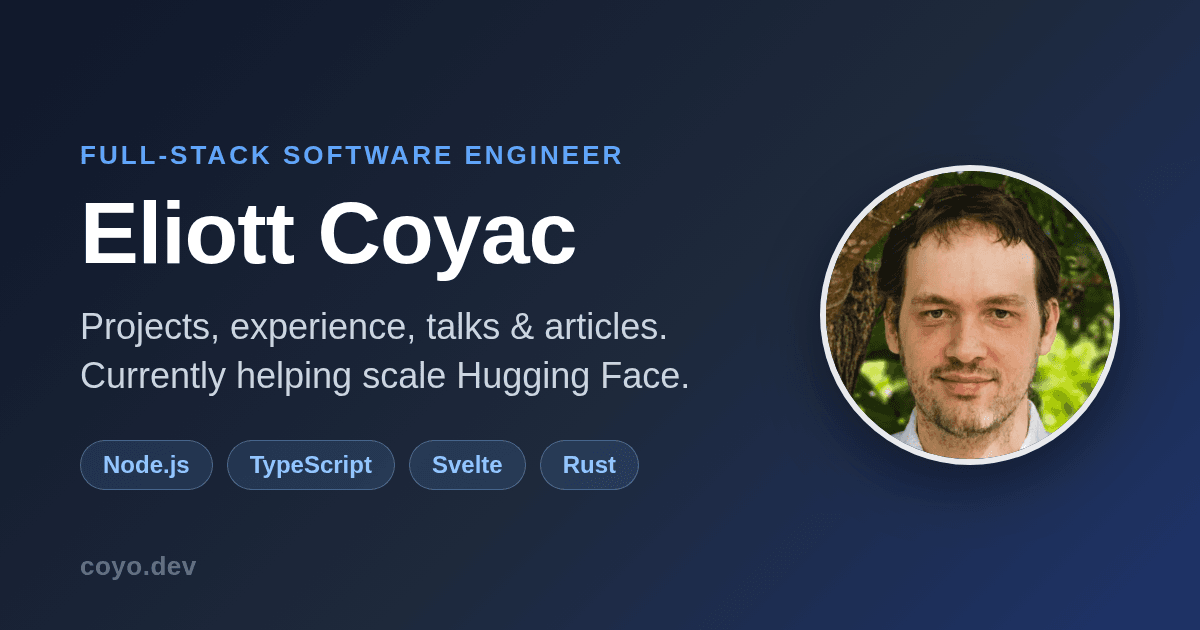
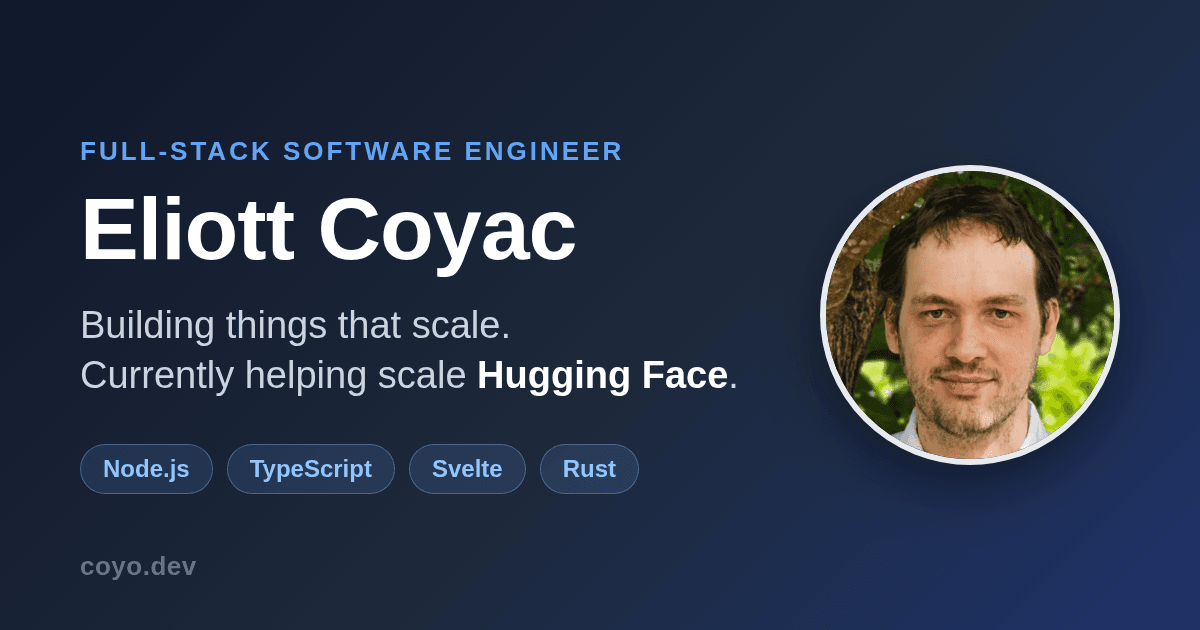
Replace OG subline with a hook: 'Building things that scale'
Drops the 'projects, experience, talks & articles' list from the OG
image and meta descriptions for a punchier tagline.

diff --git a/src/app.html b/src/app.html
@@ -4,13 +4,13 @@
 		<meta charset="utf-8" />
 		<link rel="icon" type="image/png" href="/icons/logo.png" />
 		<meta name="viewport" content="width=device-width, initial-scale=1" />
-		<meta name="description" content="Eliott Coyac: full-stack software engineer. Projects, experience, talks & articles." />
+		<meta name="description" content="Eliott Coyac: full-stack software engineer. Building things that scale — currently helping scale Hugging Face." />
 
 		<!-- Open Graph -->
 		<meta property="og:type" content="website" />
 		<meta property="og:site_name" content="coyo.dev" />
 		<meta property="og:title" content="Eliott Coyac: Full-stack engineer" />
-		<meta property="og:description" content="Full-stack software engineer. Projects, experience, talks & articles — currently helping scale Hugging Face." />
+		<meta property="og:description" content="Building things that scale — currently helping scale Hugging Face." />
 		<meta property="og:url" content="https://coyo.dev/" />
 		<meta property="og:image" content="https://coyo.dev/og.png" />
 		<meta property="og:image:width" content="1200" />
@@ -19,7 +19,7 @@
 		<!-- Twitter -->
 		<meta name="twitter:card" content="summary_large_image" />
 		<meta name="twitter:title" content="Eliott Coyac: Full-stack engineer" />
-		<meta name="twitter:description" content="Full-stack software engineer. Projects, experience, talks & articles — currently helping scale Hugging Face." />
+		<meta name="twitter:description" content="Building things that scale — currently helping scale Hugging Face." />
 		<meta name="twitter:image" content="https://coyo.dev/og.png" />
 
 		<link rel="canonical" href="https://coyo.dev/" />
